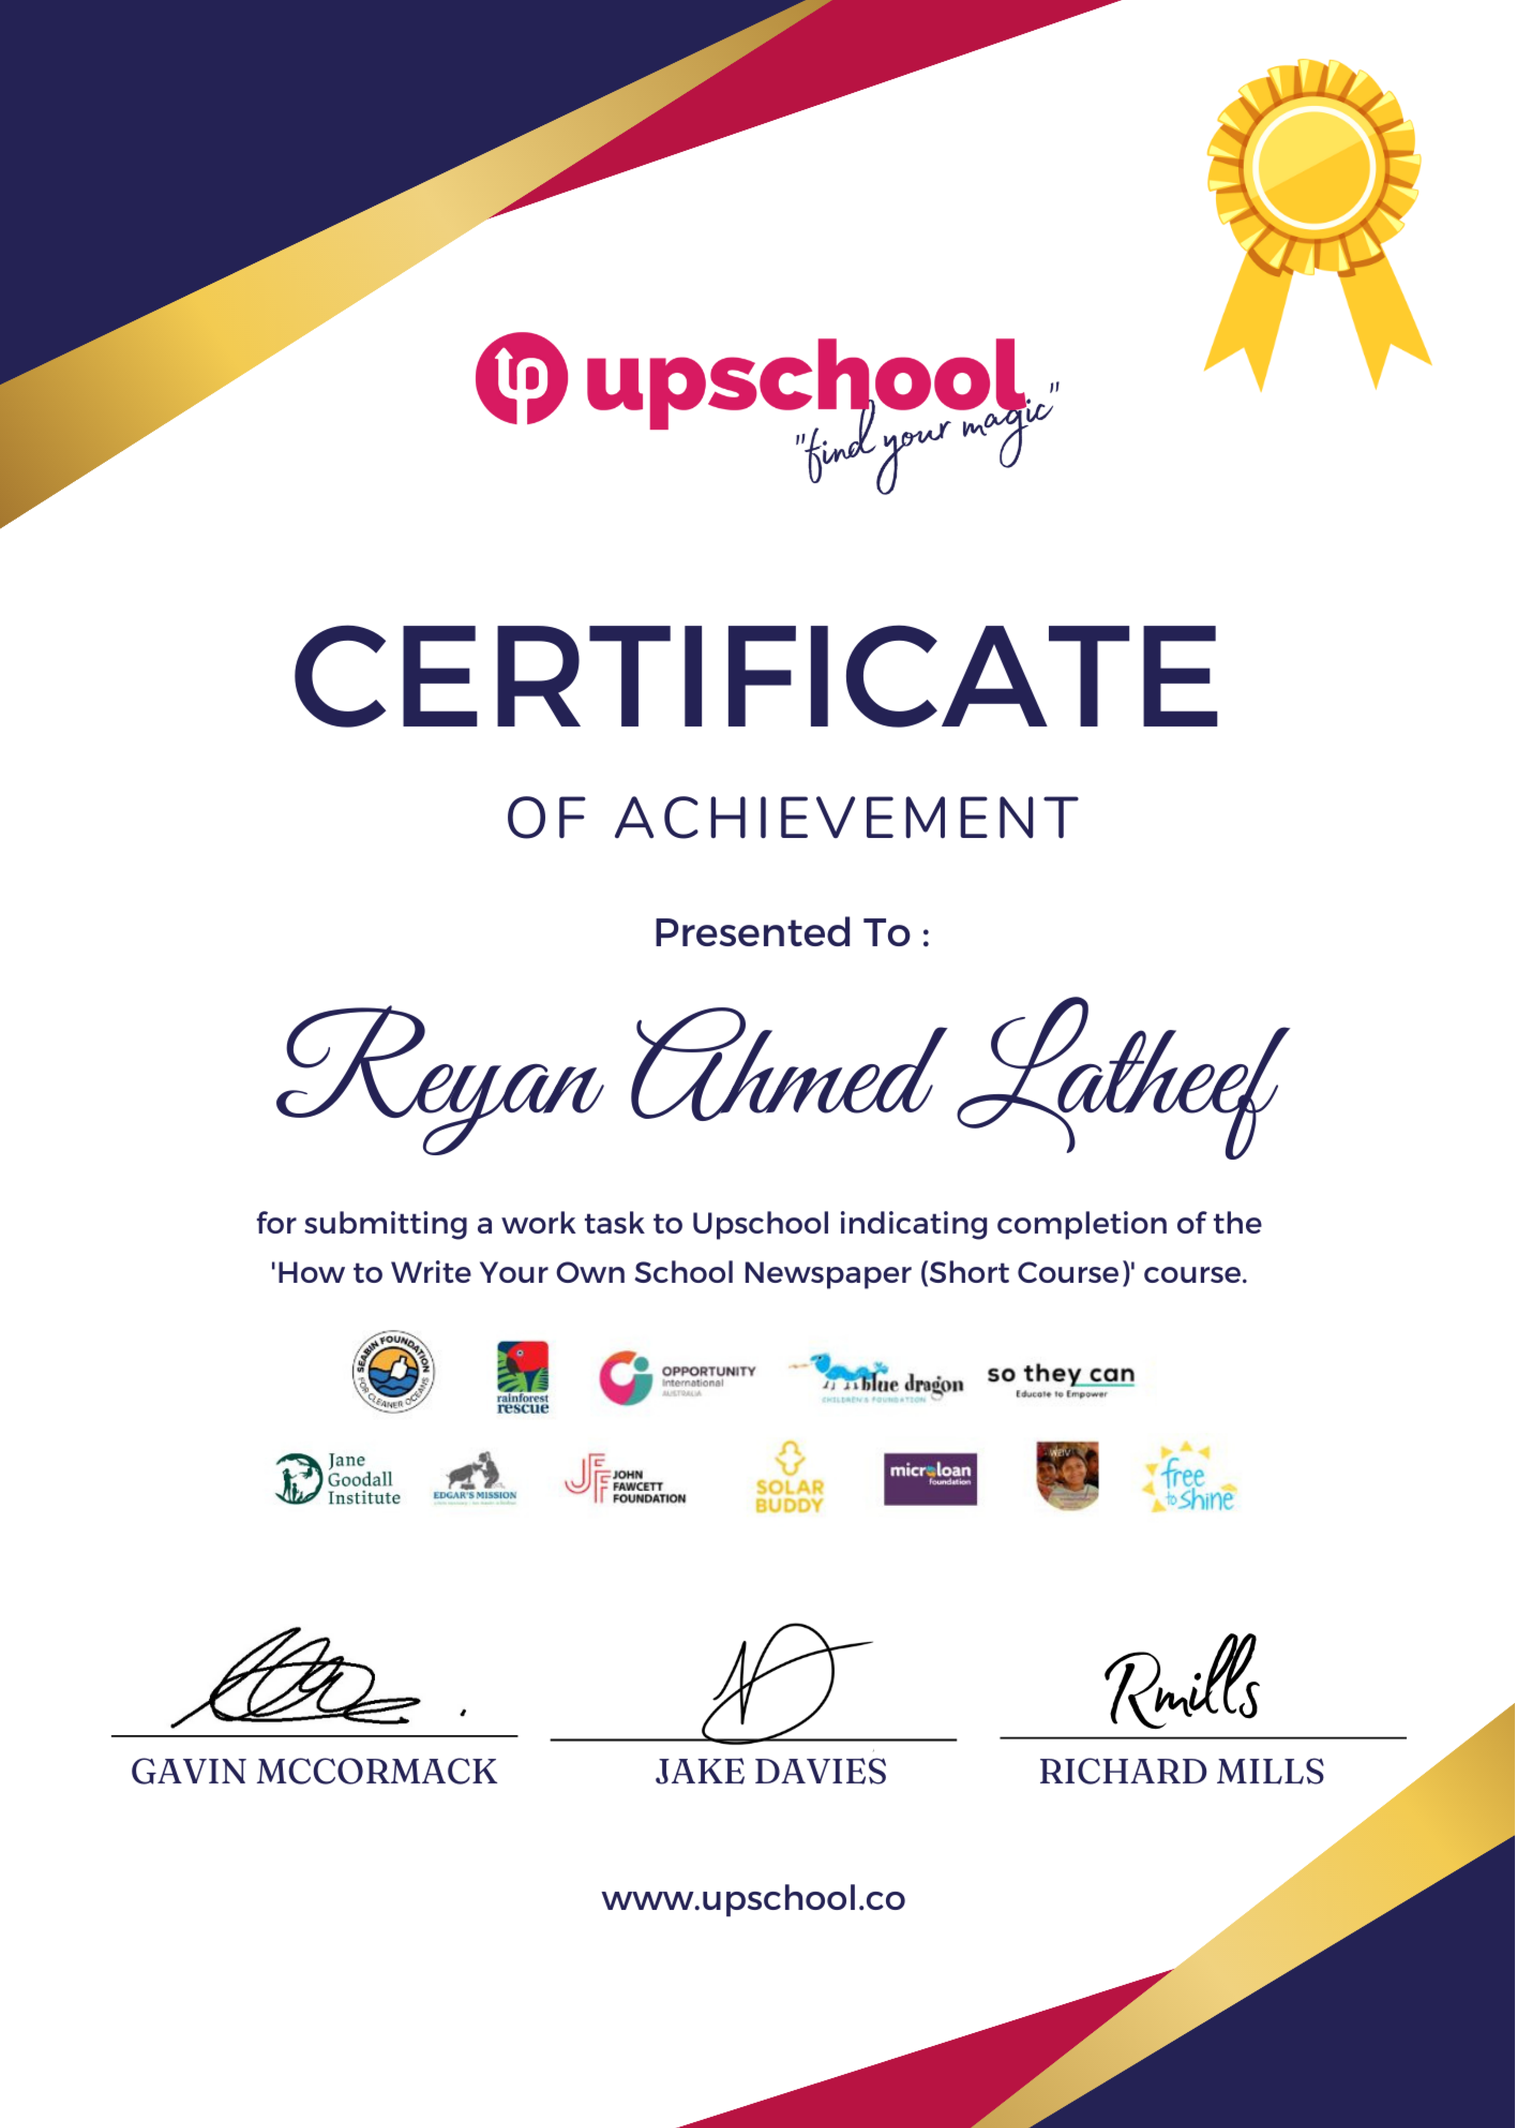
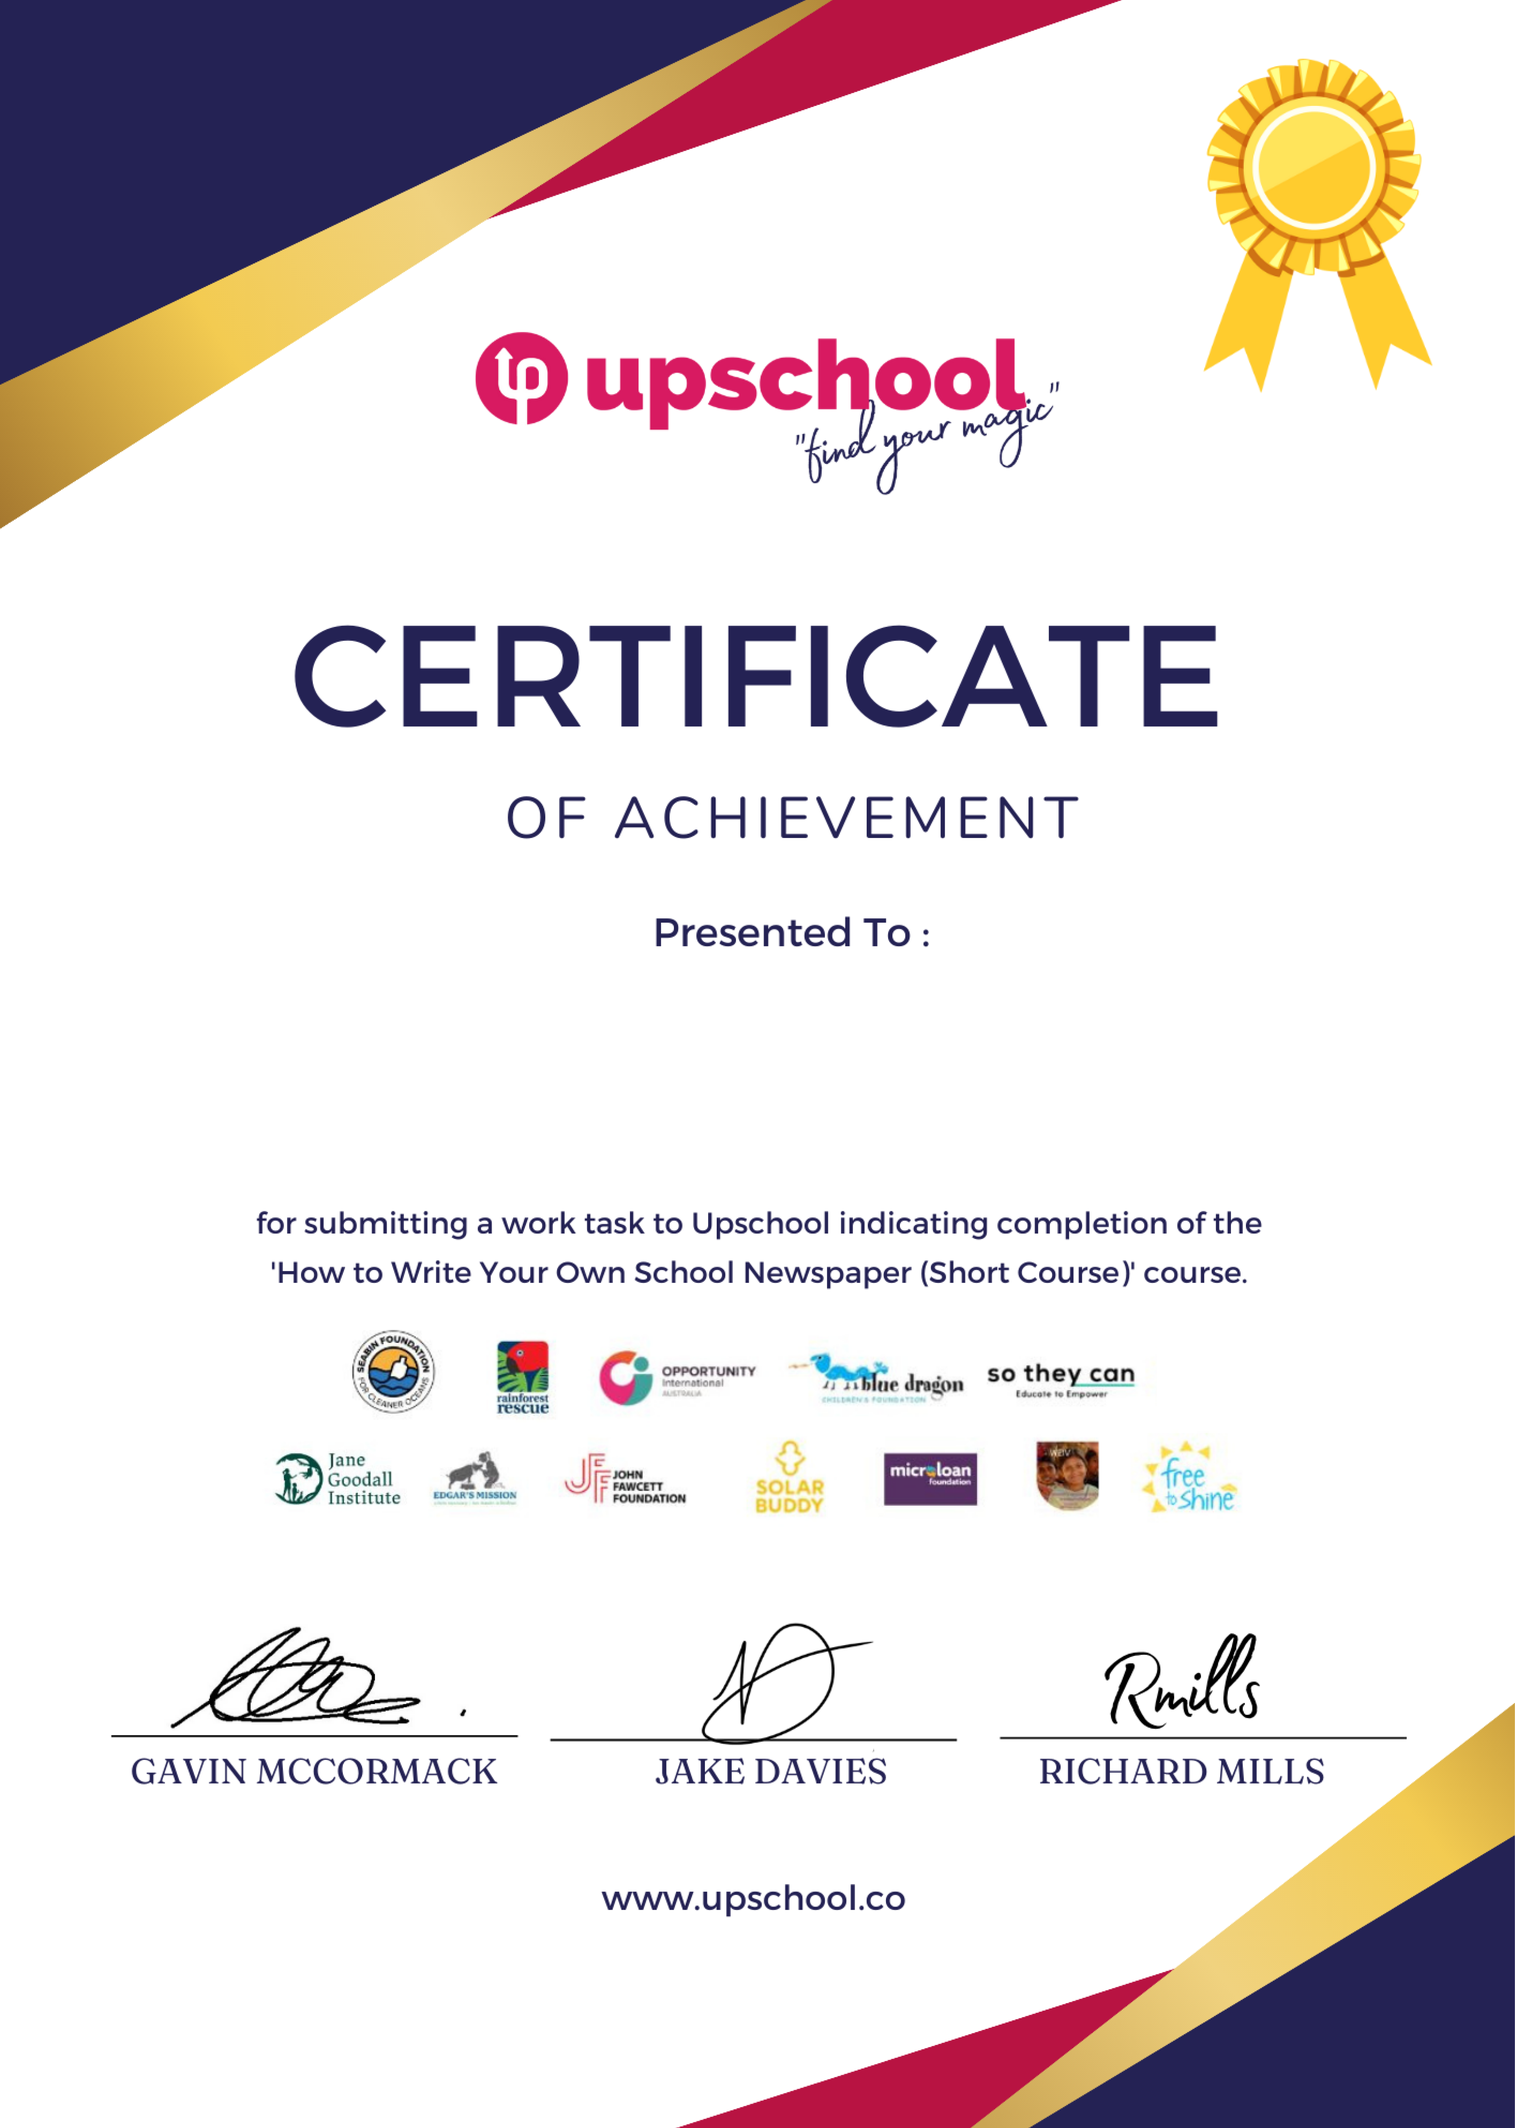
certificate changes and global-reach progress

Changed region(s): [[0.1863, 0.4675, 0.8384, 0.561]]

diff --git a/src/pages/GlobalReach/GlobalReach.tsx b/src/pages/GlobalReach/GlobalReach.tsx
@@ -1,0 +1,82 @@
+import { useEffect, useState } from 'react';
+import ArrowCircleRightOutlinedIcon from '@mui/icons-material/ArrowCircleRightOutlined';
+import Map from './Map';
+import { RxCursorArrow } from 'react-icons/rx';
+
+const GlobalReach = () => {
+    const [mouseCoordinates, setMouseCoordinates] = useState({ x: 0, y: 0 });
+
+    useEffect(() => {
+        const handleMouseMove = (event) => {
+            setMouseCoordinates({ x: event.clientX, y: event.clientY });
+        };
+        window.addEventListener('mousemove', handleMouseMove);
+        return () => {
+            window.removeEventListener('mousemove', handleMouseMove);
+        };
+    }, []);
+    return (
+        <>
+            <div className="flex item-center justify-center flex-col">
+                <div className=" flex items-center justify-center flex-col">
+                    <div className=" relative video w-screen h-[500px] overflow-hidden">
+                        <iframe
+                            className="w-[1704px] h-[960px] object-contain"
+                            // style={{ width: '200vw', height: '100vh' }}
+                            src="https://player.vimeo.com/video/710675720?autoplay=1&loop=1&muted=1&background=1"
+                            title="Background Video"
+                            allow="autoplay"
+                        ></iframe>
+                    </div>
+                    <div className="w-full h-[500px] bg-black opacity-40 absolute"></div>
+                    <div className="flex absolute items-center justify-center flex-col  max-w-[800px] z-10">
+                        <h3
+                            className="text-[20px] "
+                            style={{ color: '#FDCF60' }}
+                        >
+                            We are so proud that
+                        </h3>
+                        <h1
+                            className="text-[51px] text-center"
+                            style={{ color: 'white' }}
+                        >
+                            Students Over 170 Countries Are Learning With
+                            Upschool{' '}
+                        </h1>
+                        <h2
+                            className="text-[43px] text-center"
+                            style={{ color: '#FDCF60' }}
+                        >
+                            Join The Movement
+                        </h2>
+                        <div
+                            className="px-[30px] py-[10px] border-2 border-white"
+                            style={{ color: 'white' }}
+                        >
+                            <button className="mr-2">Register</button>
+                            <ArrowCircleRightOutlinedIcon />
+                        </div>
+                    </div>
+                </div>
+                <div className="flex flex-col items-center justify-center py-[3rem]">
+                    <RxCursorArrow
+                        style={{ fontSize: '50px' }}
+                        className="mb-8 text-red-upschool"
+                    />
+                    <h1
+                        className="text-2xl max-w-[1000px] text-center"
+                        style={{ color: 'black' }}
+                    >
+                        Move your mouse over the map below to see which
+                        countries are learning with us (shaded pink).{' '}
+                    </h1>
+                </div>
+                <div className="map max-w-[1800px]">
+                    <Map mouseCoordinates={mouseCoordinates} />
+                </div>
+            </div>
+        </>
+    );
+};
+
+export default GlobalReach;

diff --git a/src/pages/GlobalReach/Map.tsx b/src/pages/GlobalReach/Map.tsx
@@ -1,0 +1,78 @@
+import './Map.css';
+import World from '@svg-maps/world';
+import { SVGMap } from 'react-svg-map';
+
+import 'react-svg-map/lib/index.css';
+import { useState } from 'react';
+import { useEffect } from 'react';
+
+const Map = ({ mouseCoordinates }) => {
+    const [location, setLocation] = useState(null);
+    const [locId, setLocId] = useState(null);
+
+    useEffect(() => {
+        const val = document.querySelector(`#${locId}`);
+        if (val) {
+            val.classList.add('your-hover-class');
+            console.log('Class Added');
+            // val.style.fill = "red";
+        }
+        console.log(locId);
+        return () => {
+            // Clean up the class on component unmount or when hover ends
+            if (val) {
+                val.classList.remove('your-hover-class');
+                console.log('Class Removed');
+            }
+        };
+    }, [locId]);
+
+    const handleMouseOver = (e) => {
+        console.log('Mouse Over');
+        const pointedLocation = e.target.attributes.name.value;
+        const pointedLocationId = e.target.attributes.id.value;
+        setLocId(pointedLocationId);
+        setLocation(pointedLocation);
+        // console.log(pointedLocationId);
+    };
+
+    const handleMouseOut = () => {
+        console.log('Mouse out');
+        setLocation(null);
+        setLocId(null);
+    };
+
+    const getLocationClassName = (location, index) => {
+        // console.log(location)
+    };
+
+    const style = {
+        top: mouseCoordinates.y - 30,
+        left: mouseCoordinates.x - 40,
+    };
+
+    return (
+        <div>
+            <SVGMap
+                map={World}
+                locationClassName={getLocationClassName}
+                onLocationMouseOver={handleMouseOver}
+                onLocationMouseOut={handleMouseOut}
+                className="map"
+                id="map"
+            />
+            {location && (
+                <>
+                    <div className="tooltip" style={style}>
+                        <div className="tooltip-main">
+                            {location ? `${location}` : 'None'}
+                        </div>
+                        <div className="tooltip-arrow"></div>
+                    </div>
+                </>
+            )}
+        </div>
+    );
+};
+
+export default Map;

diff --git a/src/pages/Certificate/CertificateImage.tsx b/src/pages/Certificate/CertificateImage.tsx
@@ -1,0 +1,63 @@
+import { useEffect, useState } from 'react';
+
+const CertificateImage = ({ formData }) => {
+    const [image, setImage] = useState();
+
+    const createNewImage = async () => {
+        // Get the original image file
+        const originalImage = await fetch(
+            '../../../public/images/Certificate.png',
+        );
+        // Resize the image
+
+        console.log('True', originalImage);
+        // Resize the image
+        const canvas = document.createElement('canvas');
+        const context = canvas.getContext('2d');
+        canvas.width = 669; // new width
+        canvas.height = 939.3; // new height
+        const img = new Image();
+        img.src = originalImage.url;
+        img.onload = () => {
+            context.drawImage(img, 0, 0, 669, 939.9); // Draw the resized image
+
+            console.log('Called');
+
+            // Draw text on the canvas
+            const text = `${formData.firstName} ${formData.lastName}`;
+            context.font = '3.2rem "Great Vibes"';
+            context.fillStyle = '#03014C';
+
+            const textWidth = context.measureText(text).width;
+            const x = (canvas.width - textWidth) / 2;
+            const y = (canvas.height - 24) / 2 + 24;
+
+            context.fillText(text, x, y); // Adjust position and text as needed
+
+            // Convert the canvas to a data URL
+            const modifiedImageDataUrl = canvas.toDataURL('image/png');
+
+            // Save the data URL in React state
+            setImage(modifiedImageDataUrl);
+        };
+    };
+
+    useEffect(() => {
+        createNewImage();
+    }, [formData]);
+
+    return (
+        <div>
+            <img src={image} className="p-5" />
+            {/* <div className="absolute bottom-[17%] left-[10%] right-[10%] text-lg font-bold h-[6rem]  bg-white z-1"></div>
+            <span className="absolute bottom-[17%] left-1/2 transform -translate-x-1/2 text-lg font-bold h-[5rem] w-[80%] z-10 ">
+                <h1 className="text-5xl font-greatvibes text-font-color font-normal text-center">
+                    {formData.firstName} {formData.lastName}
+                    Kaustuv Karki Karki
+                </h1>
+            </span> */}
+        </div>
+    );
+};
+
+export default CertificateImage;

diff --git a/src/pages/Certificate/CertificateStep3.tsx b/src/pages/Certificate/CertificateStep3.tsx
@@ -1,11 +1,13 @@
 import html2canvas from 'html2canvas';
 import jsPDF from 'jspdf';
-import Certificate from '../../../public/images/Certificate.png';
+// import Certificate from '../../../public/images/Certificate.png';
 import Cross from '../../assets/CrossMark.png';
 import TextField from '@mui/material/TextField';
 import { useState } from 'react';
+import CertificateImage from './CertificateImage';
 
 const CertificateStep3 = ({ formData, setFormData }) => {
+    // Code done from here
     const handleDownload = () => {
         const certificate = document.querySelector('.document') as HTMLElement;
         html2canvas(certificate).then((canvas) => {
@@ -53,13 +55,15 @@ const CertificateStep3 = ({ formData, setFormData }) => {
     return (
         <div className=" relative overflow-scroll h-50vh max-h-[76vh] overflow-x-hidden">
             <div className="document">
-                <img src={Certificate} className="p-5" />
-                <div className="absolute bottom-[18%] left-[10%] right-[10%] text-lg font-bold h-[6rem]  bg-white z-1 "></div>
-                <span className="absolute bottom-[18%] left-1/2 transform -translate-x-1/2 text-lg font-bold h-[5rem] w- z-10 ">
-                    <h1 className="text-2xl">
+                {/* <img src={Certificate} className="p-5" />
+                <div className="absolute bottom-[17%] left-[10%] right-[10%] text-lg font-bold h-[6rem]  bg-white z-1"></div>
+                <span className="absolute bottom-[17%] left-1/2 transform -translate-x-1/2 text-lg font-bold h-[5rem] w-[80%] z-10 ">
+                    <h1 className="text-5xl font-greatvibes text-font-color font-normal text-center">
                         {formData.firstName} {formData.lastName}
+                        Kaustuv Karki Karki
                     </h1>
-                </span>
+                </span> */}
+                <CertificateImage formData={formData} />
             </div>
             <div className="flex justify-between p-5">
                 <button

diff --git a/src/pages/Certificate/CertificateStep2.tsx b/src/pages/Certificate/CertificateStep2.tsx
@@ -23,7 +23,7 @@ const data = [
     },
 ];
 
-const CertificateStep2 = ({ changeCurrentStep }) => {
+const CertificateStep2 = ({ changeCurrentStep, setCurrentStep }) => {
     const [currentQuestion, setCurrentQuestion] = useState(0);
     const [marks, setMarks] = useState(0);
     const [value, setValue] = useState('');
@@ -125,8 +125,13 @@ const CertificateStep2 = ({ changeCurrentStep }) => {
 
     useEffect(() => {
         console.log('Marks', marks);
-        if (marks > Math.floor(data.length / 2)) {
-            changeCurrentStep();
+        if (submit) {
+            if (marks > Math.floor(data.length / 2)) {
+                changeCurrentStep();
+            } else {
+                console.log('Insufficient Marks');
+                setCurrentStep(0);
+            }
         }
     }, [marks]);
 

diff --git a/src/pages/GlobalReach/Map.css b/src/pages/GlobalReach/Map.css
@@ -1,0 +1,40 @@
+.tooltip {
+    position: fixed;
+    align-items: center;
+    display: flex;
+    flex-direction: column;
+    justify-content: center;
+}
+
+.tooltip-main {
+    padding: 5px 20px;
+    background-color: white;
+}
+
+.map {
+    position: relative;
+    background-color: #242254;
+    fill: #D69EB2;
+}
+
+
+.container {
+    width: 80vw;
+    /* height: 100px;  */
+    overflow: auto;
+    /* margin-top: -30px; */
+}
+
+.tooltip-arrow {
+    height: 0px;
+    width: 0px;
+    /* background-color: green; */
+    border-left: 10px solid transparent;
+    border-right: 10px solid transparent;
+    border-top: 10px solid white;
+}
+
+.your-hover-class {
+    fill: #D5185C;
+    /* transition: fill 0.2s ease-in-out; */
+}

diff --git a/src/App.tsx b/src/App.tsx
@@ -25,6 +25,7 @@ import NewBrowseBooks from './pages/Library/DefaultPage';
 import Experiment from './pages/ZExperiment/Experiment';
 import Certificate from './pages/Certificate/Certificate';
 import BookPage from './pages/BookPage/BookPage';
+import GlobalReach from './pages/GlobalReach/GlobalReach';
 
 const router = createBrowserRouter([
     {
@@ -118,6 +119,10 @@ const router = createBrowserRouter([
             {
                 path: '/certificate',
                 element: <Certificate />,
+            },
+            {
+                path: '/global-reach',
+                element: <GlobalReach />,
             },
         ],
     },

diff --git a/src/index.css b/src/index.css
@@ -2,6 +2,8 @@
 @import url('https://fonts.googleapis.com/css2?family=Pixelify+Sans:wght@400;500&display=swap');
 @import url('https://fonts.googleapis.com/css2?family=Nunito+Sans:ital,wght@0,200;0,300;0,400;0,500;0,600;0,700;0,800;0,900;0,1000;1,200;1,300;1,400;1,500;1,600;1,700;1,800;1,900;1,1000&display=swap');
 @import url('https://fonts.googleapis.com/css2?family=Annie+Use+Your+Telescope&display=swap');
+@import url('https://fonts.googleapis.com/css2?family=Great+Vibes&display=swap');
+
 
 @tailwind base;
 @tailwind components;

diff --git a/src/data/NavbarBoxData.ts b/src/data/NavbarBoxData.ts
@@ -524,7 +524,7 @@ const data = [
             { id: 1, title: 'Our Framework', path: '/our-framework' },
             { id: 2, title: 'Mission', path: '/about' },
             { id: 3, title: 'Team', path: 'demo' },
-            { id: 4, title: 'Global Reach', path: 'demo' },
+            { id: 4, title: 'Global Reach', path: 'global-reach' },
             { id: 5, title: 'FAQ', path: '/faq' },
             { id: 6, title: 'Testimonials', path: '/testimonials' },
             { id: 7, title: 'Contact', path: '/contact' },

diff --git a/src/pages/Certificate/Certificate.tsx b/src/pages/Certificate/Certificate.tsx
@@ -28,7 +28,10 @@ const Certificate = () => {
             setFormData={setFormData}
             changeCurrentStep={changeCurrentStep}
         />,
-        <CertificateStep2 changeCurrentStep={changeCurrentStep} />,
+        <CertificateStep2
+            changeCurrentStep={changeCurrentStep}
+            setCurrentStep={setCurrentStep}
+        />,
         <CertificateStep3 formData={formData} setFormData={setFormData} />,
     ];
 

diff --git a/tailwind.config.js b/tailwind.config.js
@@ -17,6 +17,7 @@ export default {
                     '"Annie Use Your Telescope"',
                     'cursive',
                 ],
+                greatvibes: ['Great Vibes', 'sans-serif'],
             },
             flexGrow: {
                 2: '2',
